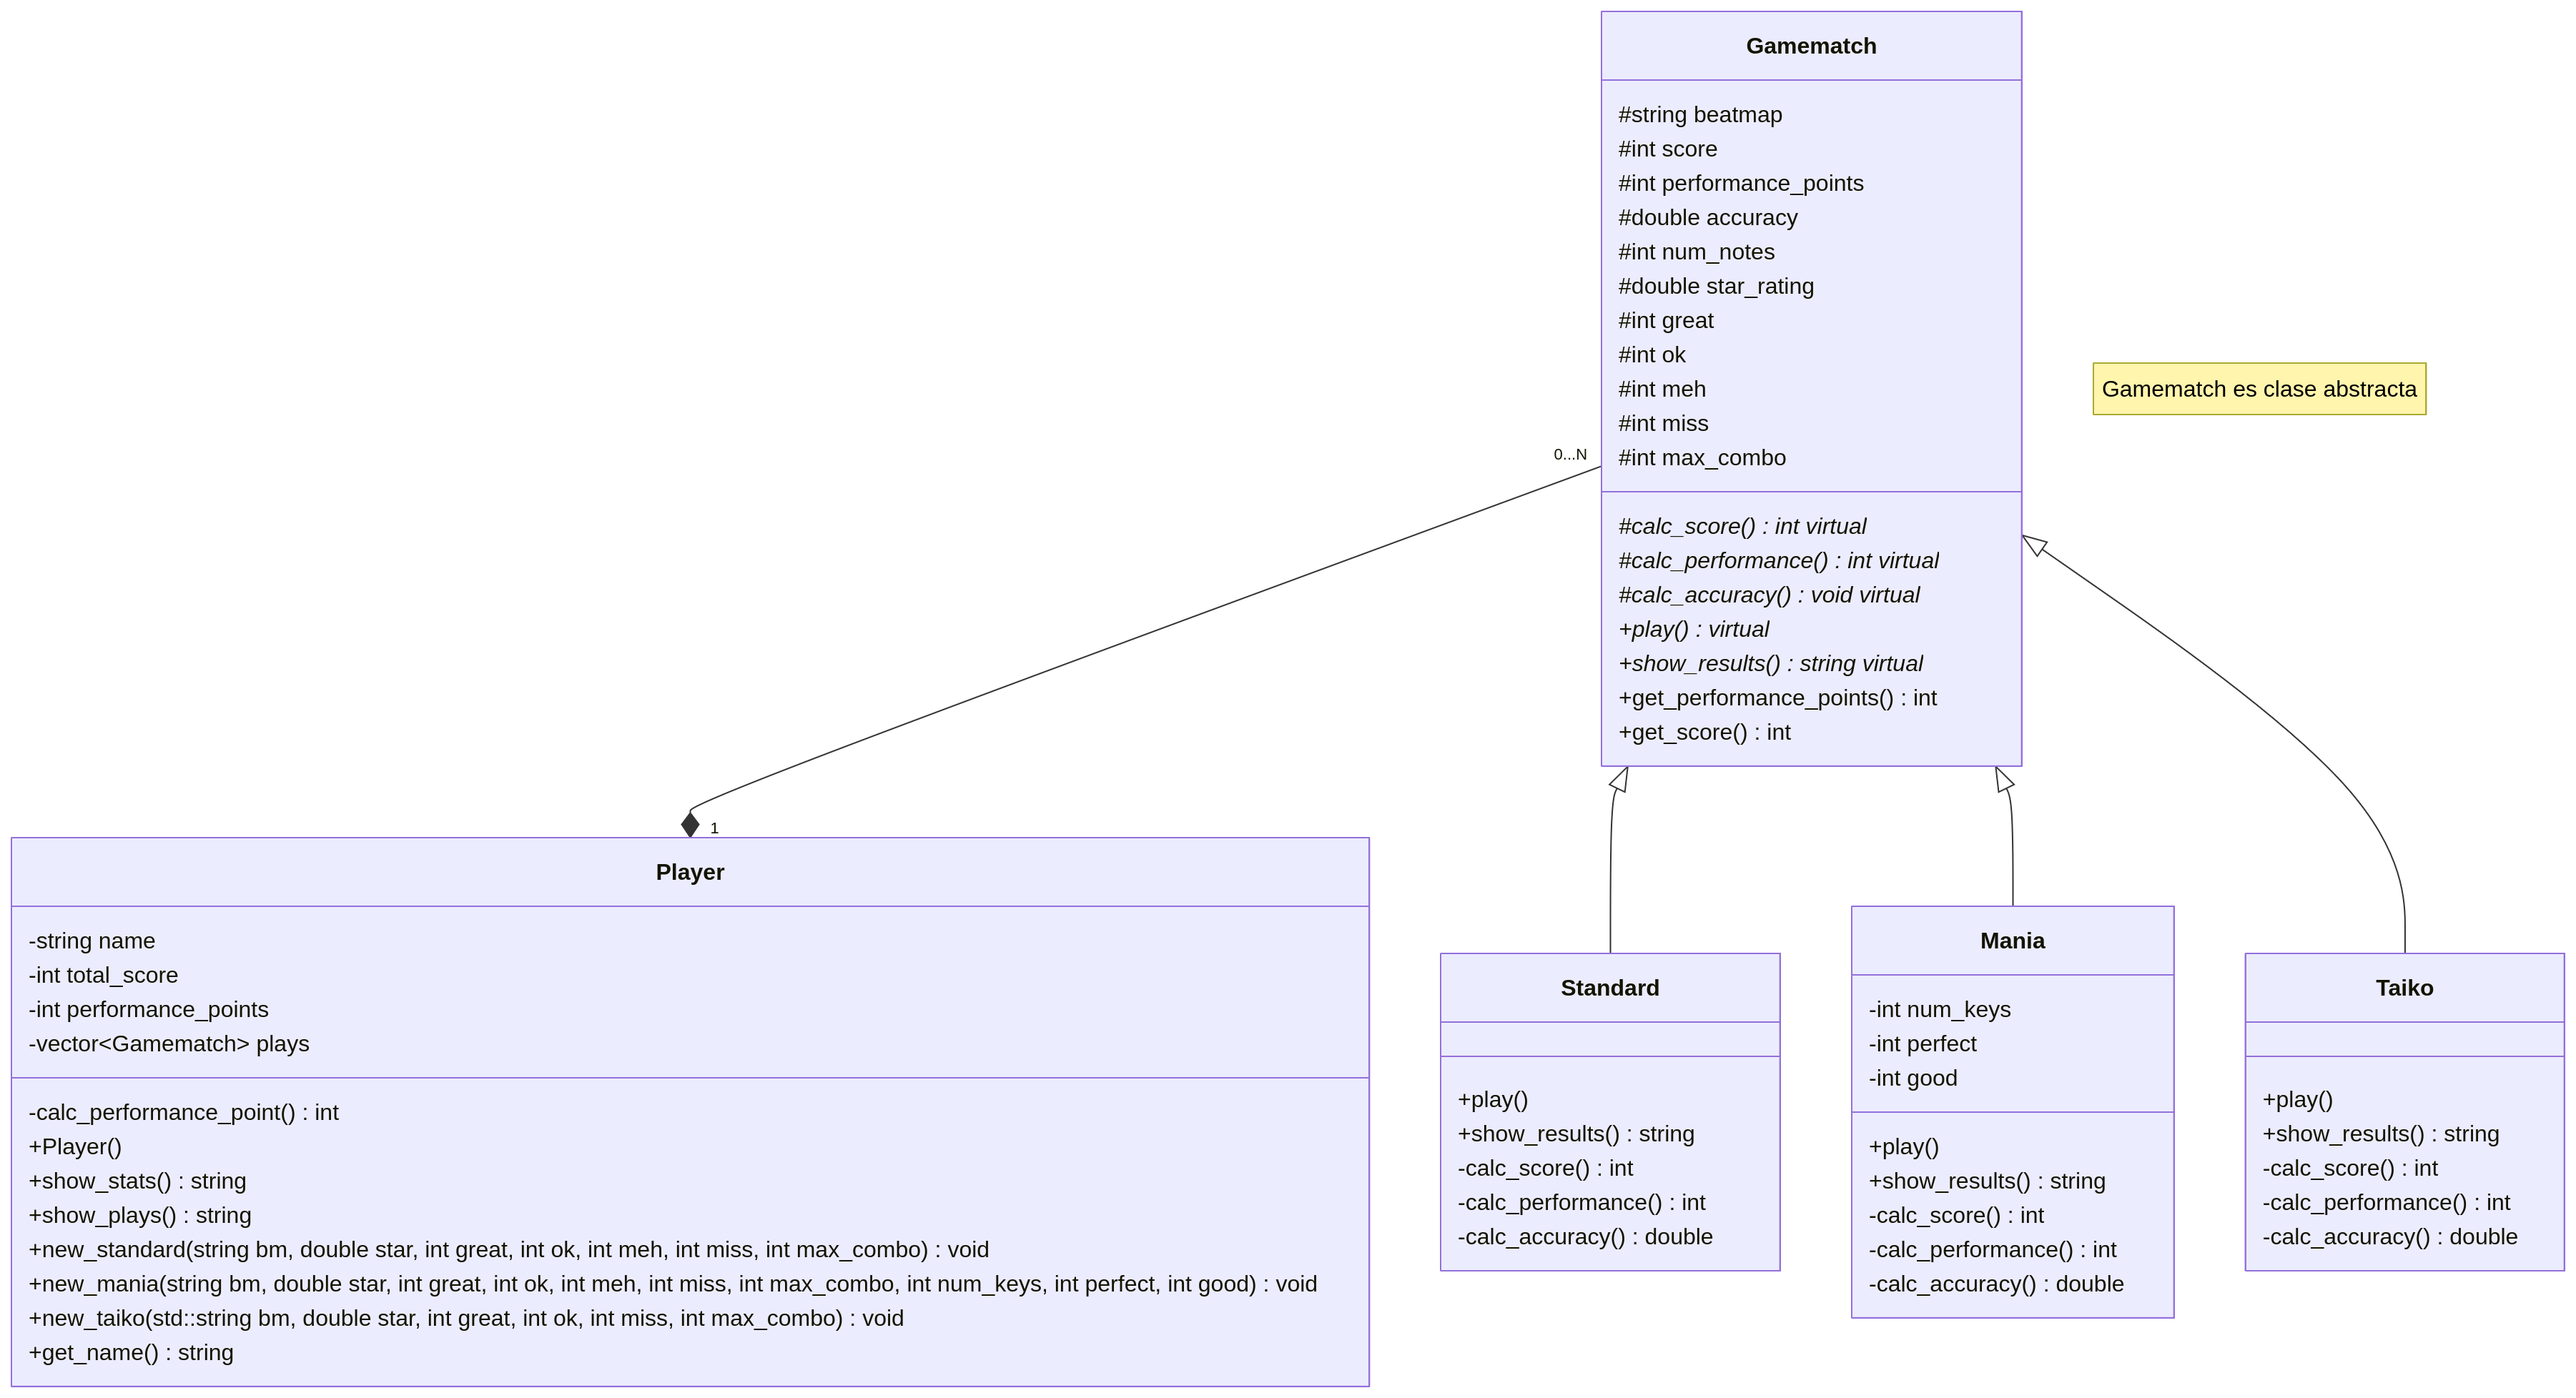
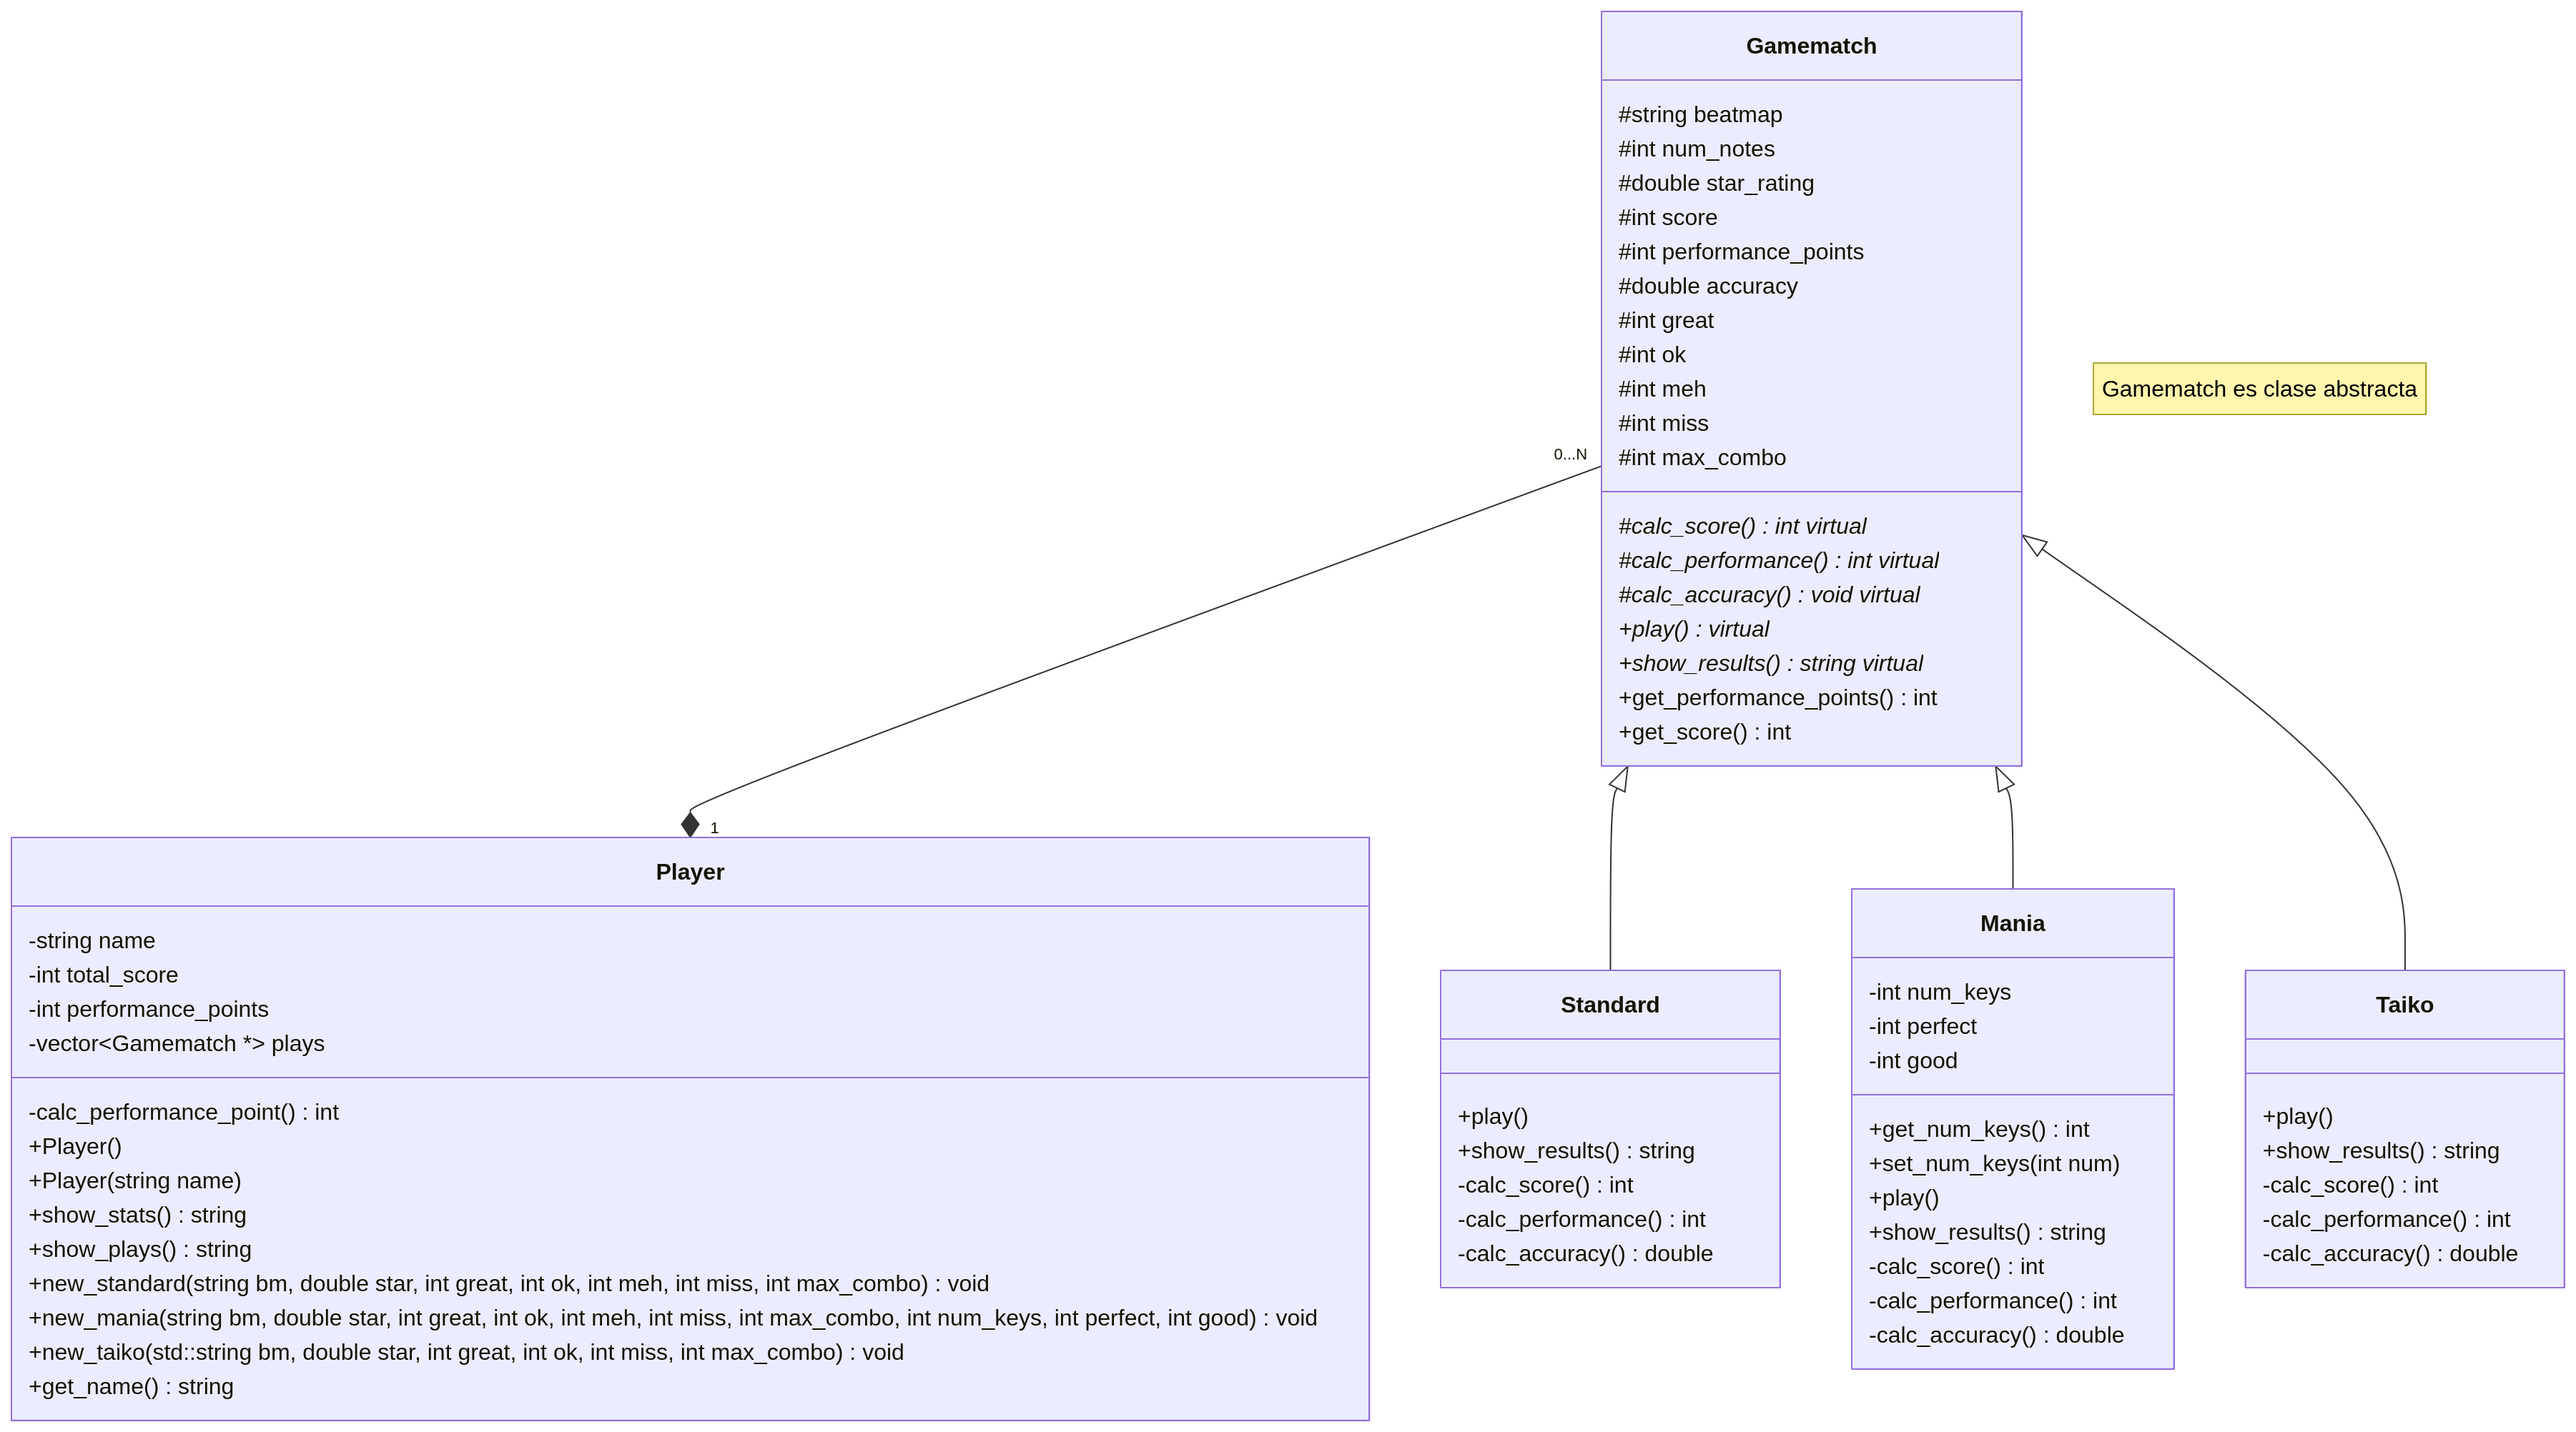
uml: update
mania: add missing setters and getters
player: use pointer for plays vector
gamematch: switch variables order

diff --git a/uml.md b/uml.md
@@ -2,11 +2,12 @@ classDiagram
     note "Gamematch es clase abstracta"
 class Gamematch {
     #string beatmap
+    #int num_notes
+    #double star_rating
+
     #int score
     #int performance_points
     #double accuracy
-    #int num_notes
-    #double star_rating
 
     #int great
     #int ok
@@ -36,11 +37,14 @@ class Mania {
     -int perfect
     -int good
 
+    +get_num_keys() int
+    +set_num_keys(int num)
     +play()
     +show_results() string
     -calc_score() int
     -calc_performance() int
     -calc_accuracy() double
+    
 
 }
 
@@ -57,10 +61,11 @@ class Player {
     -string name
     -int total_score
     -int performance_points
-    -vector~Gamematch~ plays
+    -vector~Gamematch *~ plays
     -calc_performance_point() int
 
     +Player()
+    +Player(string name)
     +show_stats() string
     +show_plays() string
     +new_standard(string bm, double star, int great, int ok, int meh, int miss, int max_combo) void
